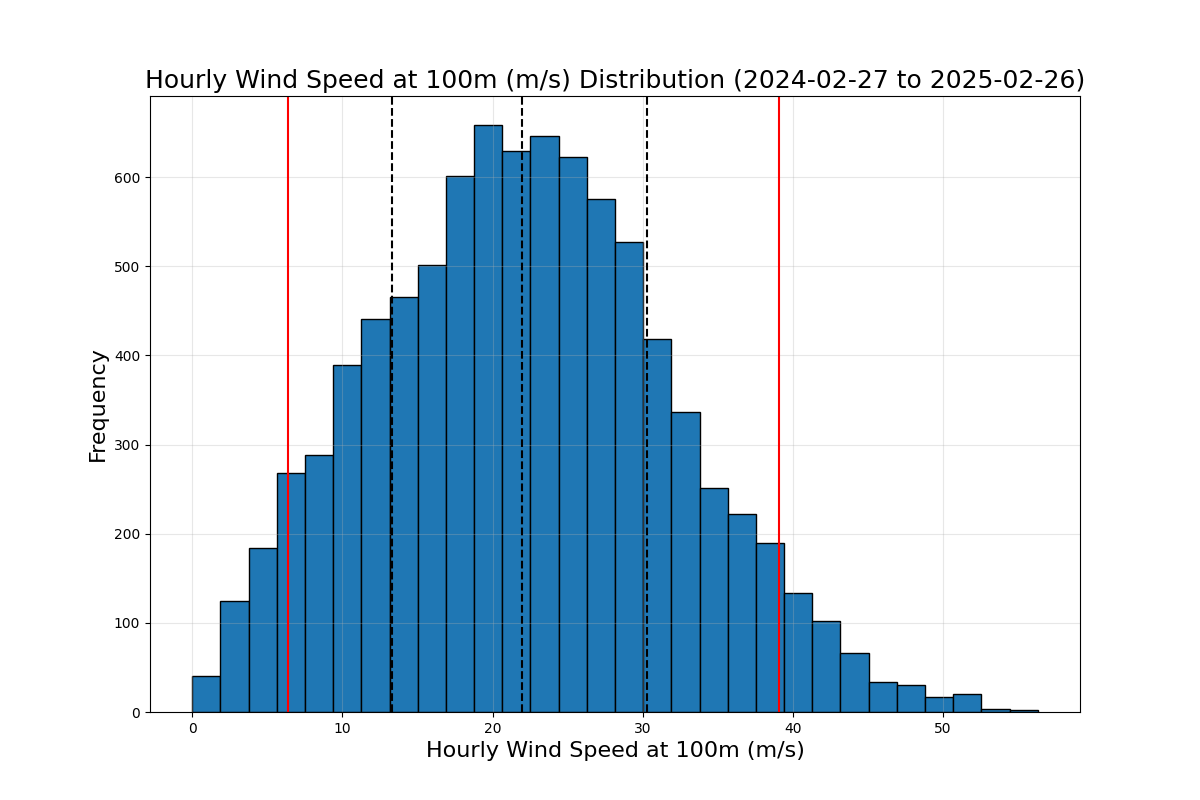
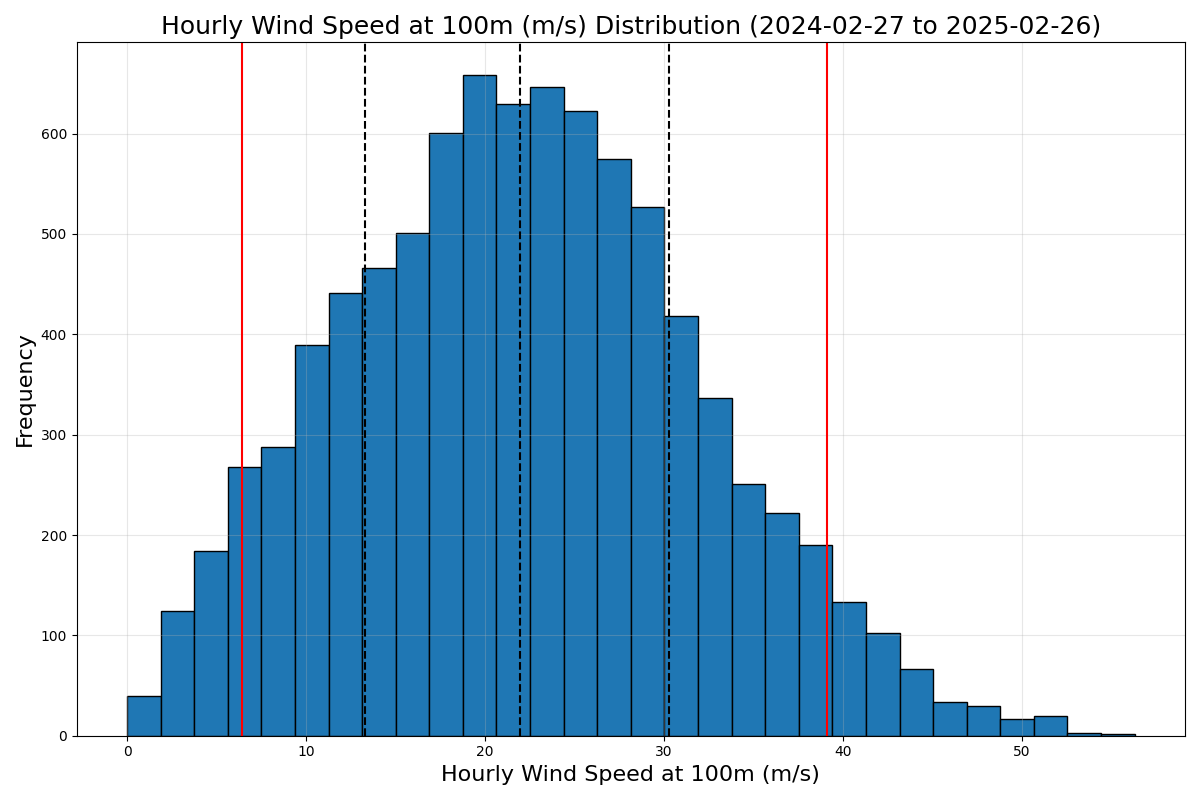
Cleaned up code

diff --git a/plots/index.html b/plots/index.html
@@ -3,16 +3,22 @@
 		<title>Tuulispask</title>
 	</head>
 	<body>
-		<h1>Kurmi @100m</h1>
-		<img src="kurmi_hourly_wind_speed_100m.png"/>
-		<img src="kurmi_hourly_winddirection_100m.png"/>
+		<h1>Kurmi@100m</h1>
+		<p style="page-break-after: always;">
+			<img src="kurmi_hourly_wind_speed_100m.png"/>
+			<img src="kurmi_hourly_winddirection_100m.png"/>
+		</p>
 
-		<h1>Laane @100m</h1>
-		<img src="laane_hourly_wind_speed_100m.png"/>
-		<img src="laane_hourly_winddirection_100m.png"/>
+		<h1>Laane@100m</h1>
+		<p style="page-break-after: always;">
+			<img src="laane_hourly_wind_speed_100m.png"/>
+			<img src="laane_hourly_winddirection_100m.png"/>
+		</p>
 
-		<h1>Neitsi @100m</h1>
-		<img src="neitsi_hourly_wind_speed_100m.png"/>
-		<img src="neitsi_hourly_winddirection_100m.png"/>
+		<h1>Neitsi@100m</h1>
+		<p style="page-break-after: always;">
+			<img src="neitsi_hourly_wind_speed_100m.png"/>
+			<img src="neitsi_hourly_winddirection_100m.png"/>
+		</p>
 	</body>
 </html>

diff --git a/main.py b/main.py
@@ -49,13 +49,18 @@ def fetch_history(type, variable):
 
 	return data[type][variable]
 
-def wind_rose():
-	label = "Hourly Wind Direction at {wind_height} (degrees)".format(wind_height = wind_height)
+def wind_direction():
 	type = "hourly"
 	variable = "winddirection_{wind_height}".format(wind_height = wind_height)
+	label = "Hourly Wind Direction at {wind_height} (degrees)".format(wind_height = wind_height)
 
 	values = fetch_history(type, variable)
 
+	plt = wind_direction_plot(values, label)
+	plt.savefig("plots/{location}_{type}_{variable}.png".format(location = location, type = type, variable = variable))
+	plt.show()
+
+def wind_direction_plot(values, label):
 	# Define direction bins (16 cardinal directions)
 	bins = numpy.linspace(0, 360, 17)
 	directions = ['N', 'NNE', 'NE', 'ENE', 'E', 'ESE', 'SE', 'SSE', 'S', 'SSW', 'SW', 'WSW', 'W', 'WNW', 'NW', 'NNW']
@@ -78,7 +83,7 @@ def wind_rose():
 	bars = ax.bar(theta, hist, width=width, bottom=0.0, color='skyblue', edgecolor='black')
 
 	# Customize plot
-	ax.set_title(label, va='bottom', pad=20)
+	ax.set_title(label, va='bottom', pad=20, fontsize=18)
 
 	# Set direction labels
 	ax.set_xticks(theta)
@@ -95,19 +100,20 @@ def wind_rose():
 
 	plt.tight_layout()
 
-	plt.savefig("plots/{location}_{type}_{variable}.png".format(location = location, type = type, variable = variable))
+	return plt
 
-	plt.show()
-
-def wind_speed_histogram():
-	label = "Hourly Wind Speed at {wind_height} (m/s)".format(wind_height = wind_height)
+def wind_speed():
 	type = "hourly"
 	variable = "wind_speed_{wind_height}".format(wind_height = wind_height)
+	label = "Hourly Wind Speed at {wind_height} (m/s)".format(wind_height = wind_height)
 
 	values = fetch_history(type, variable)
 
-	print("Number of values: {}".format(len(values)))
+	plt = wind_speed_plot(values, label)
+	plt.savefig("plots/{location}_{type}_{variable}.png".format(location = location, type = type, variable = variable))
+	plt.show()
 
+def wind_speed_plot(values, label):
 	quantiles = numpy.quantile(values, [0.05, 0.20, 0.50, 0.80, 0.95]).tolist()
 	print("Quantiles: {}".format(quantiles))
 
@@ -129,9 +135,9 @@ def wind_speed_histogram():
 	plt.ylabel('Frequency', fontsize=16)
 	plt.grid(True, alpha=0.3)
 
-	plt.savefig("plots/{location}_{type}_{variable}.png".format(location = location, type = type, variable = variable))
+	plt.tight_layout()
 
-	plt.show()
+	return plt
 
-wind_rose()
-wind_speed_histogram()
+wind_direction()
+wind_speed()
